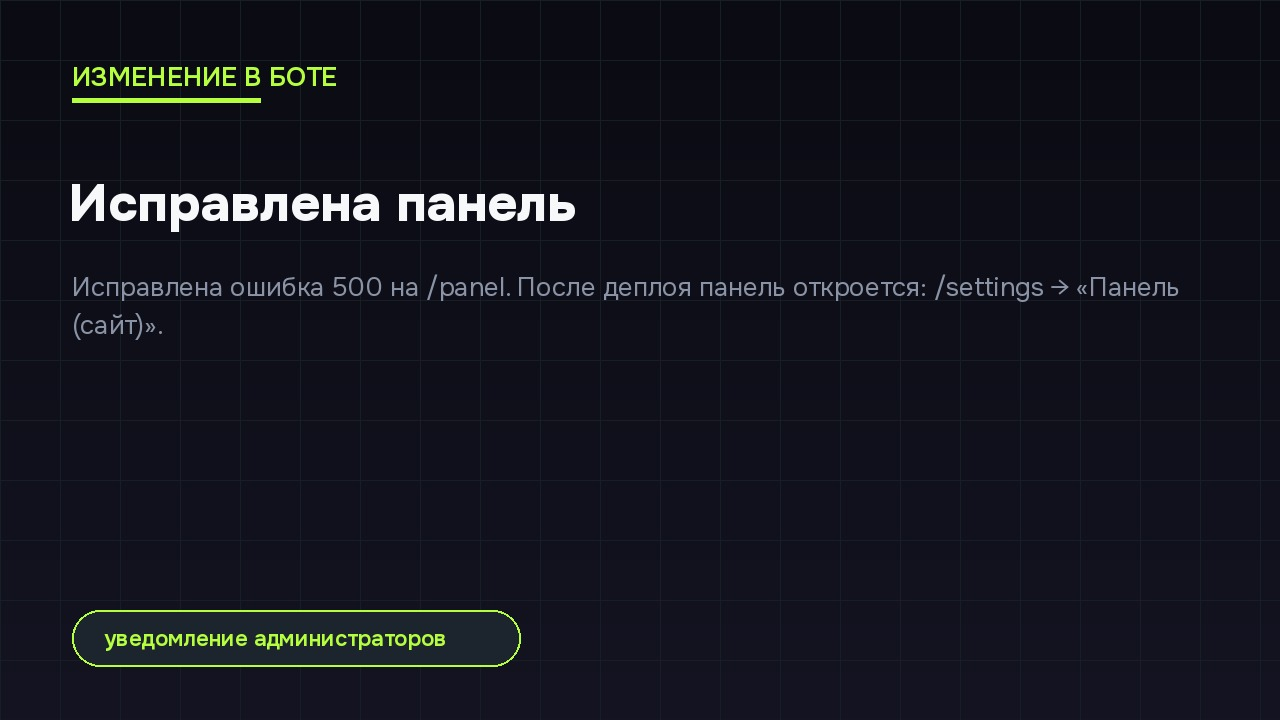
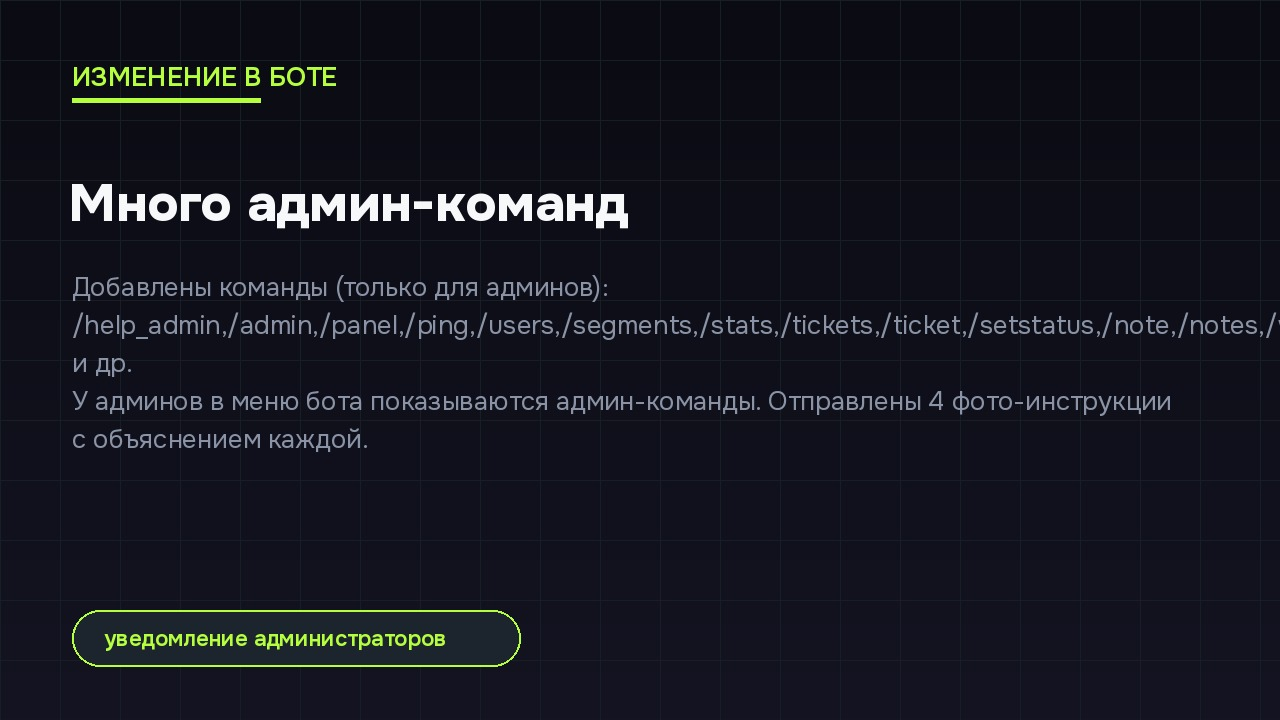
many more admin commands

Changed region(s): [[0.0625, 0.3667, 1.0, 0.5194], [0.0625, 0.55, 0.9062, 0.6417], [0.0625, 0.2444, 0.5, 0.3361]]

diff --git a/app.py b/app.py
@@ -844,39 +844,59 @@ def show_price_settings(chat_id):
 
 
 ADMIN_HELP = (
-"<b>Команды админов</b>\n\n"
+"<b>Команды админов (все)</b>\n\n"
 "<b>Основное</b>\n"
-"/admin — админ-панель в боте (меню)\n"
-"/settings — настройки (цены, контакт, слот, статистика, панель)\n"
-"/panel — ссылка на мини-сайт реального времени\n"
-"/help_admin — этот список\n\n"
-"<b>Заявки и клиенты</b>\n"
-"/tickets — последние заявки\n"
-"/ticket ID — карточка заявки\n"
-"/setstatus ID статус — статус заявки (новый/принят/в работе/готово)\n"
-"/note ID текст — заметка по клиенту (chat_id или ID заявки)\n"
-"/notes ID — показать заметку\n"
-"/who CHAT_ID — данные пользователя/сегмент/заметка\n"
-"/say CHAT_ID текст — написать пользователю от имени бота\n\n"
+"/admin /settings — админ-меню\n"
+"/panel — мини-сайт реального времени\n"
+"/help_admin — все команды\n"
+"/ping — проверка, время, хранилище\n"
+"/healthcheck — быстрая диагностика\n"
+"/db — статус БД/хранилища\n"
+"/id — ваш chat_id\n\n"
+"<b>Заявки</b>\n"
+"/tickets — последние 15\n"
+"/ticket ID — карточка + Ответить/статусы\n"
+"/open_tickets — новые/принятые/в работе\n"
+"/done_tickets — готовые\n"
+"/findticket текст — поиск по заявкам\n"
+"/setstatus ID статус — сменить статус (+уведомление клиенту)\n"
+"/ticketmsg ID — текст заявки коротко\n\n"
+"<b>Клиенты/заметки</b>\n"
+"/who CHAT_ID — профиль, сегмент, заметка, заявки\n"
+"/note ID текст — заметка (по заявке или chat_id)\n"
+"/notes ID — заметка\n"
+"/delnote ID — удалить заметку\n"
+"/say CHAT_ID текст — написать клиенту\n"
+"/clearstate CHAT_ID — сбросить состояние диалога\n\n"
 "<b>Отзывы</b>\n"
-"/reviews — последние отзывы\n"
-"/reviews_pending — отзывы на модерации\n\n"
-"<b>Рассылки и аудитория</b>\n"
-"/users — количество и последние пользователи\n"
-"/segments — сегменты аудитории\n"
-"/rassylka [сегмент] — рассылка всем или по сегменту (bots/sites/catalog/brief)\n\n"
-"<b>Статистика и данные</b>\n"
+"/reviews — последние\n"
+"/reviews_pending — на модерации (с кнопками)\n\n"
+"<b>Аудитория/рассылки</b>\n"
+"/users — всего и последние\n"
+"/lastusers N — последние N\n"
+"/segments — сегменты\n"
+"/rassylka [сегмент] — всем/по сегменту\n"
+"/broadcast_preview — превью текста рассылки\n\n"
+"<b>Статистика/экспорт</b>\n"
 "/stats — статистика\n"
-"/export — экспорт настроек (JSON)\n"
-"/exportdata — экспорт заявок/отзывов (сводка)\n\n"
-"<b>Быстрые настройки</b>\n"
-"/setslot текст — статус слотов (принимаю/занят)\n"
-"/setowner username — контакт без @\n"
-"/faq — показать текущий FAQ/статус\n\n"
+"/export — настройки JSON\n"
+"/exportdata — сводка данных\n"
+"/backup — экспорт настроек + сводка\n\n"
+"<b>Настройки/контент</b>\n"
+"/prices — все цены\n"
+"/setslot текст — статус слотов\n"
+"/setowner username — контакт\n"
+"/setfaq текст — заменить FAQ\n"
+"/setabout текст — заменить описание\n"
+"/service ID — данные услуги\n"
+"/setprice_svc ID цена — цена услуги\n"
+"/maintenance on|off — слот быстро\n"
+"/faq — показать статус+FAQ\n\n"
 "<b>Служебное</b>\n"
-"/links — ссылки на услуги\n"
-"/id — ваш chat_id\n"
-"/ping — проверка бота\n"
+"/links — deep-links услуг\n"
+"/notifyadmins текст — уведомление всем админам\n"
+"/version — версия/коммит\n"
+"/chatinfo — инфо о чате\n"
 )
 
 # ---------- обработка ----------
@@ -944,8 +964,7 @@ def handle_message(msg):
             old = (SETTINGS.get("services", {}).get(sid) or {}).get("price") or (DEFAULT_SETTINGS["services"].get(sid) or {}).get("price") or "-"
             SETTINGS.setdefault("services", {}).setdefault(sid, {})["price"] = text
             save_settings(SETTINGS)
-            global SERVICES
-            SERVICES = get_services()
+            globals()["SERVICES"] = get_services()
             state.pop(chat_id, None)
             who = user.get("username") or user.get("first_name") or str(chat_id)
             sv = svc(sid)
@@ -1087,6 +1106,79 @@ def handle_message(msg):
         return send(chat_id, "Контакт: @%s" % owner_username())
     if text == "/faq" and is_admin(chat_id):
         return send(chat_id, "<b>Статус:</b> %s\n\n<b>FAQ</b>\n%s" % (SETTINGS.get("slot"), SETTINGS.get("faq")))
+
+    if text == "/healthcheck" and is_admin(chat_id):
+        return send(chat_id, "ok\nвремя: %s\nхранение: %s\nпользователей: %s\nзаявок: %s" % (time.strftime("%Y-%m-%d %H:%M:%S"), "PostgreSQL" if _DB else "файлы", len(USERS), len(DATA.get("tickets",[]))))
+    if text == "/db" and is_admin(chat_id):
+        return send(chat_id, "Хранение: %s\nDATABASE_URL задан: %s" % ("PostgreSQL" if _DB else "файлы (JSON)", "да" if os.environ.get("DATABASE_URL") else "нет"))
+    if text == "/open_tickets" and is_admin(chat_id):
+        ts=[t for t in reversed(DATA.get("tickets",[])) if t.get("status") in ("новый","принят","в работе")][:15]
+        if not ts: return send(chat_id, "Открытых заявок нет.")
+        return send(chat_id, "<b>Открытые заявки</b>\n\n" + "\n".join("#%s [%s] %s: %s"%(t["id"],t.get("status"),t.get("name"),(t.get("text") or "")[:70]) for t in ts))
+    if text == "/done_tickets" and is_admin(chat_id):
+        ts=[t for t in reversed(DATA.get("tickets",[])) if t.get("status")=="готово"][:15]
+        if not ts: return send(chat_id, "Готовых заявок нет.")
+        return send(chat_id, "<b>Готовые</b>\n\n" + "\n".join("#%s %s: %s"%(t["id"],t.get("name"),(t.get("text") or "")[:70]) for t in ts))
+    if text.startswith("/findticket ") and is_admin(chat_id):
+        q=text.split(None,1)[1].lower()
+        ts=[t for t in DATA.get("tickets",[]) if q in json.dumps(t,ensure_ascii=False).lower()][-12:]
+        if not ts: return send(chat_id, "Ничего не найдено.")
+        return send(chat_id, "<b>Найдено</b>\n\n" + "\n".join("#%s [%s] %s: %s"%(t["id"],t.get("status"),t.get("name"),(t.get("text") or "")[:80]) for t in ts))
+    if text.startswith("/ticketmsg ") and is_admin(chat_id):
+        t=find_ticket(text.split(None,1)[1].strip())
+        return send(chat_id, (t.get("text") if t else "Не найдено.")[:3900])
+    if text.startswith("/delnote ") and is_admin(chat_id):
+        key=text.split(None,1)[1].strip(); t=find_ticket(key)
+        if t: key=str(t.get("chat_id"))
+        (DATA.get("notes") or {}).pop(str(key), None); save_data(DATA)
+        return send(chat_id, "Заметка удалена: %s" % key)
+    if text.startswith("/clearstate ") and is_admin(chat_id):
+        key=text.split(None,1)[1].strip(); state.pop(key, None); state.pop(int(key) if key.isdigit() else key, None)
+        return send(chat_id, "Состояние сброшено: %s" % key)
+    if text.startswith("/lastusers") and is_admin(chat_id):
+        n=15
+        p=text.split()
+        if len(p)>1 and p[1].isdigit(): n=min(50,int(p[1]))
+        last=list(USERS.items())[-n:]
+        return send(chat_id, "<b>Пользователи (%s)</b>\n\n%s" % (len(USERS), "\n".join("%s — %s"%(k,v) for k,v in last)))
+    if text == "/broadcast_preview" and is_admin(chat_id):
+        return send(chat_id, BROADCAST_TEXT)
+    if text == "/prices" and is_admin(chat_id):
+        return send(chat_id, "<b>Цены</b>\n\n" + "\n".join("• %s — %s (%s)"%(x["title"],x["price"],x["term"]) for x in get_services()))
+    if text.startswith("/service ") and is_admin(chat_id):
+        sv=svc(text.split(None,1)[1].strip())
+        return send(chat_id, "<b>%s</b>\n%s\n%s · %s\n\n%s" % (sv.get("id"), sv.get("title"), sv.get("price"), sv.get("term"), sv.get("desc")))
+    if text.startswith("/setprice_svc ") and is_admin(chat_id):
+        p=text.split(None,2)
+        if len(p)<3: return send(chat_id, "Формат: /setprice_svc ID цена")
+        sid,price=p[1],p[2]; old=(SETTINGS.get("services",{}).get(sid) or {}).get("price","-")
+        SETTINGS.setdefault("services",{}).setdefault(sid,{})["price"]=price; save_settings(SETTINGS); globals()["SERVICES"]=get_services()
+        notify_change(user.get("username") or "admin","Цена изменена","%s: %s → %s"%(sid,old,price))
+        return send(chat_id, "Ок: %s = %s" % (sid, price))
+    if text.startswith("/setfaq ") and is_admin(chat_id):
+        SETTINGS["faq"]=text.split(None,1)[1]; save_settings(SETTINGS)
+        notify_change(user.get("username") or "admin","FAQ изменён", SETTINGS["faq"][:300])
+        return send(chat_id, "FAQ обновлён.")
+    if text.startswith("/setabout ") and is_admin(chat_id):
+        SETTINGS["about"]=text.split(None,1)[1]; save_settings(SETTINGS)
+        notify_change(user.get("username") or "admin","Описание изменено", SETTINGS["about"][:300])
+        return send(chat_id, "Описание обновлено.")
+    if text.startswith("/maintenance ") and is_admin(chat_id):
+        v=text.split(None,1)[1].strip().lower()
+        old=SETTINGS.get("slot"); SETTINGS["slot"]="Занят, принимаю позже" if v in ("on","1","да","yes") else "Принимаю заказы"
+        save_settings(SETTINGS); notify_change(user.get("username") or "admin","Статус изменён","%s → %s"%(old,SETTINGS["slot"]))
+        return send(chat_id, "Статус: %s" % SETTINGS["slot"])
+    if text.startswith("/notifyadmins ") and is_admin(chat_id):
+        msg=text.split(None,1)[1]; notify_admin("<b>Сообщение от админа (%s)</b>\n\n%s"%(user.get("username") or user.get("first_name"), msg))
+        return send(chat_id, "Отправлено всем админам.")
+    if text == "/backup" and is_admin(chat_id):
+        send(chat_id, "<b>settings</b>\n<pre>%s</pre>" % json.dumps(SETTINGS,ensure_ascii=False,indent=1)[:3800])
+        summ={"tickets":len(DATA.get("tickets",[])),"reviews":len(DATA.get("reviews",[])),"users":len(USERS),"segments":DATA.get("segments",{})}
+        return send(chat_id, "<b>data сводка</b>\n<pre>%s</pre>" % json.dumps(summ,ensure_ascii=False,indent=1)[:3800])
+    if text == "/version" and is_admin(chat_id):
+        return send(chat_id, "bot portfolio-bot · storage: %s · panel: /panel" % ("PostgreSQL" if _DB else "файлы"))
+    if text == "/chatinfo" and is_admin(chat_id):
+        return send(chat_id, "chat_id: <code>%s</code>\nadmin: %s\nuser: @%s" % (chat_id, is_admin(chat_id), user.get("username","-")))
 
     if text == "/links" and is_admin(chat_id):
         rows = ["<b>Ссылки для постов</b>\n", "Кидай в ВК или куда угодно — человек попадёт сразу на услугу:\n"]
